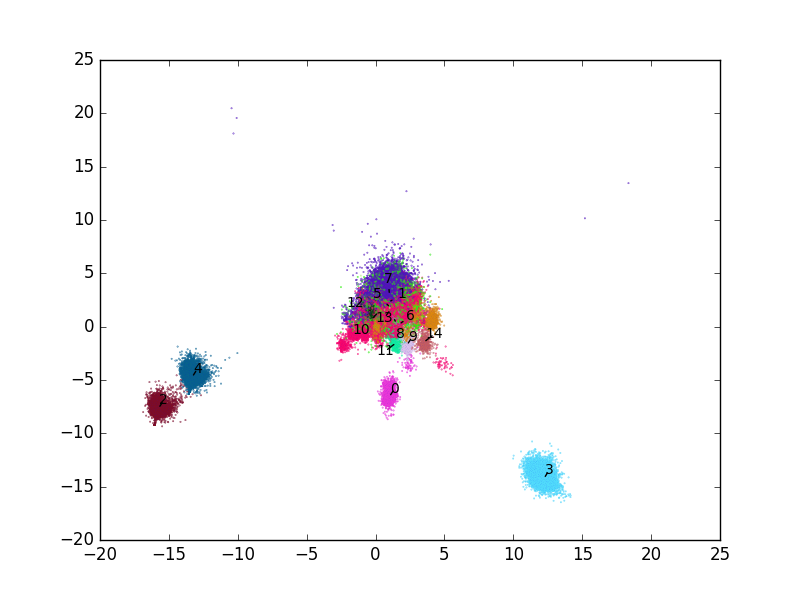
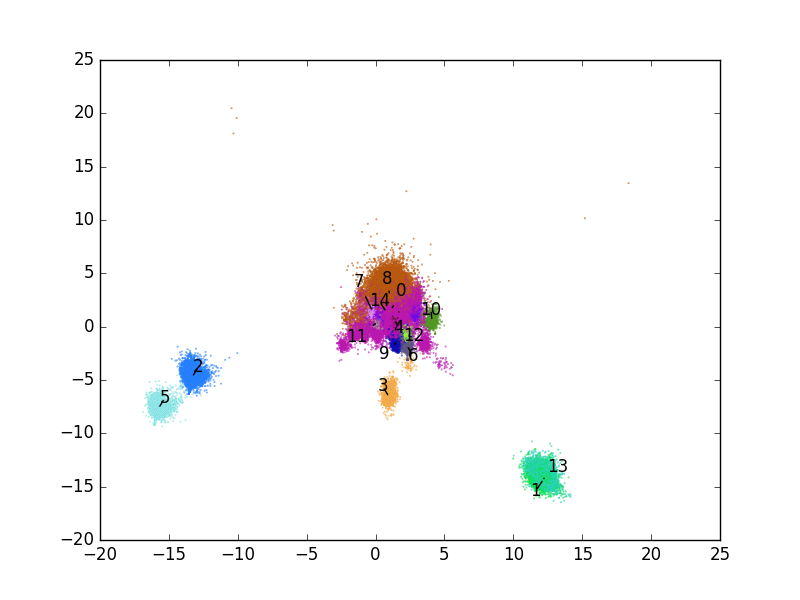
Made cluster numbers bigger.

diff --git a/scripts/embedding_analysis/analyze_plot_subclass_offset_clusters.py b/scripts/embedding_analysis/analyze_plot_subclass_offset_clusters.py
@@ -88,7 +88,7 @@ def main():
     logging.log(level=logging.INFO, msg='create plot with {} points'.format(c_offset))
     plt.scatter(xs, ys, s=0.1, edgecolors=[colors[cluster] for cluster in clusters])
 
-    adjust_text([plt.text(c_xs[c], c_ys[c], str(c), fontsize='smaller') for c in range(n_clusters)],
+    adjust_text([plt.text(c_xs[c], c_ys[c], str(c)) for c in range(n_clusters)],
                 arrowprops=dict(arrowstyle="-", color='#000000'))
     logging.log(level=logging.INFO, msg='save plot to {}'.format(plot_output))
     plt.savefig(plot_output)
